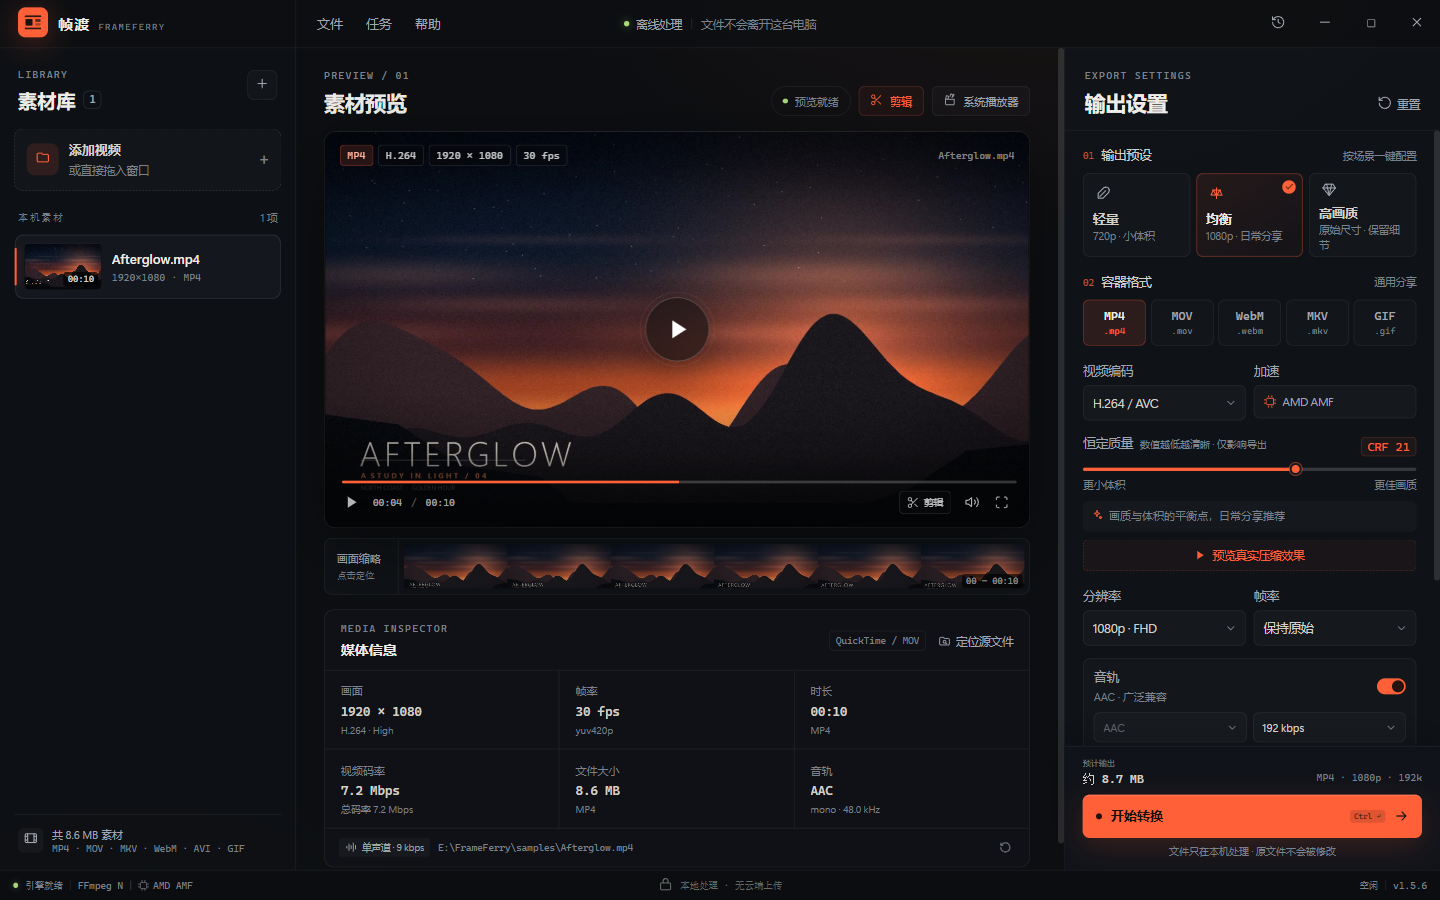
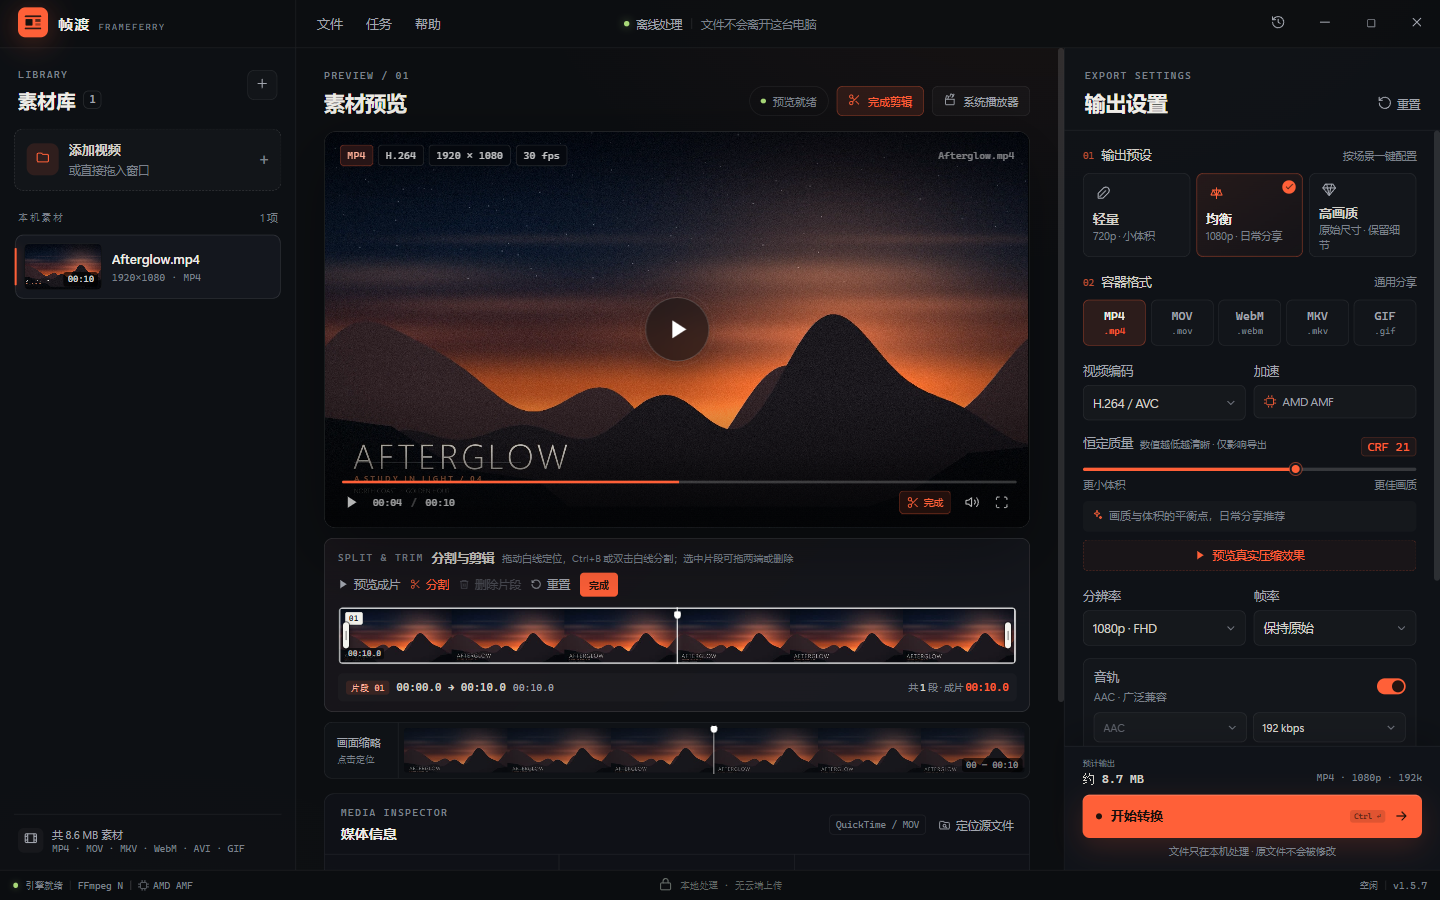
feat: 画面缩略增加同步播放头
主画面缩略带增加白色分割线，播放时移动、缩略图固定；点击任意位置暂停并跳转，主预览与剪辑面板线同步。版本提升到 v1.5.7。

diff --git a/renderer/app.js b/renderer/app.js
@@ -587,6 +587,7 @@ function renderPreview() {
       <div class="filmstrip" title="点击缩略图跳到对应画面" aria-label="全片画面缩略图，点击可定位播放位置">
         ${info.filmstrip ? `<img src="${info.filmstrip}" alt="${escapeHtml(file.name)} 缩略帧">` : '<div class="filmstrip-placeholder"><span></span><span></span><span></span><span></span><span></span><span></span></div>'}
         <span class="filmstrip-index">00 — ${escapeHtml(info.durationLabel)}</span>
+        <div class="filmstrip-playhead" id="filmstrip-playhead"></div>
       </div>
     </div>
 
@@ -670,6 +671,7 @@ function renderPreview() {
     ui.currentTime = Math.min(Number(value), video.duration || info.duration)
     try { video.currentTime = ui.currentTime } catch {}
     paintTimeline()
+    paintTrimPlayhead()
   }
 
   video.addEventListener('play', () => { ui.playing = true; paintPlay() })
@@ -746,6 +748,7 @@ function renderPreview() {
   updateTrimToggle()
   renderTrimUI()
   syncPreviewAudio()
+  paintTrimPlayhead()
 }
 
 function updateTrimToggle() {
@@ -765,11 +768,13 @@ function updateTrimToggle() {
 }
 
 function paintTrimPlayhead() {
-  const playhead = $('#trim-playhead')
   const info = activeFile()?.info
-  if (!playhead || !info?.duration) return
+  if (!info?.duration) return
   const ratio = Math.min(1, Math.max(0, ui.currentTime / info.duration))
-  playhead.style.left = `${ratio * 100}%`
+  const trimPlayhead = $('#trim-playhead')
+  if (trimPlayhead) trimPlayhead.style.left = `${ratio * 100}%`
+  const stripPlayhead = $('#filmstrip-playhead')
+  if (stripPlayhead) stripPlayhead.style.left = `${ratio * 100}%`
 }
 
 function renderTrimUI() {

diff --git a/renderer/styles.css b/renderer/styles.css
@@ -4485,3 +4485,30 @@ input:focus-visible {
   width: 13px;
   height: 13px;
 }
+
+/* ---------- Main filmstrip playhead ---------- */
+
+.filmstrip-playhead {
+  position: absolute;
+  z-index: 4;
+  top: 4px;
+  bottom: 4px;
+  width: 1px;
+  transform: translateX(-0.5px);
+  background: #fff;
+  box-shadow: 0 0 5px rgba(0, 0, 0, 0.65), 0 0 0 1px rgba(0, 0, 0, 0.15);
+  pointer-events: none;
+}
+
+.filmstrip-playhead::before {
+  content: "";
+  position: absolute;
+  top: -1px;
+  left: 50%;
+  width: 7px;
+  height: 7px;
+  transform: translateX(-50%);
+  border-radius: 2px 2px 50% 50%;
+  background: #fff;
+  box-shadow: 0 1px 4px rgba(0, 0, 0, 0.5);
+}

diff --git a/docs/TEST_REPORT.md b/docs/TEST_REPORT.md
@@ -130,6 +130,7 @@
 | 压缩预览可读性 | 元信息 13px、按钮/选择框 12.5px、标题 15px；704px 宽下保持单行 |
 | 预览头部控件 | 三个控件均为 30px 高、11px 字号；宽度随文字自适应（79/65/98px） |
 | 画面缩略条 | 标签改为「画面缩略 / 点击定位」；点击中间位置，播放头跳到 5.0s |
+| 画面缩略播放头 | 播放时白线从 1s 移到 4.08s；点击 70% 暂停并跳到 7.0s；剪辑面板白线同步到 50% |
 | 分割与删除 MP4 | 在 3s、7s 分割后删除中间段，输出 6.000s，音画均保留 |
 | 分割片段再裁剪 | 把首段出点从 3.0s 拖到 2.5s，输出 5.500s |
 | 分割后 GIF | 保留 0–3s / 7–10s，输出 75 帧 / 6s / 全部 80ms |
